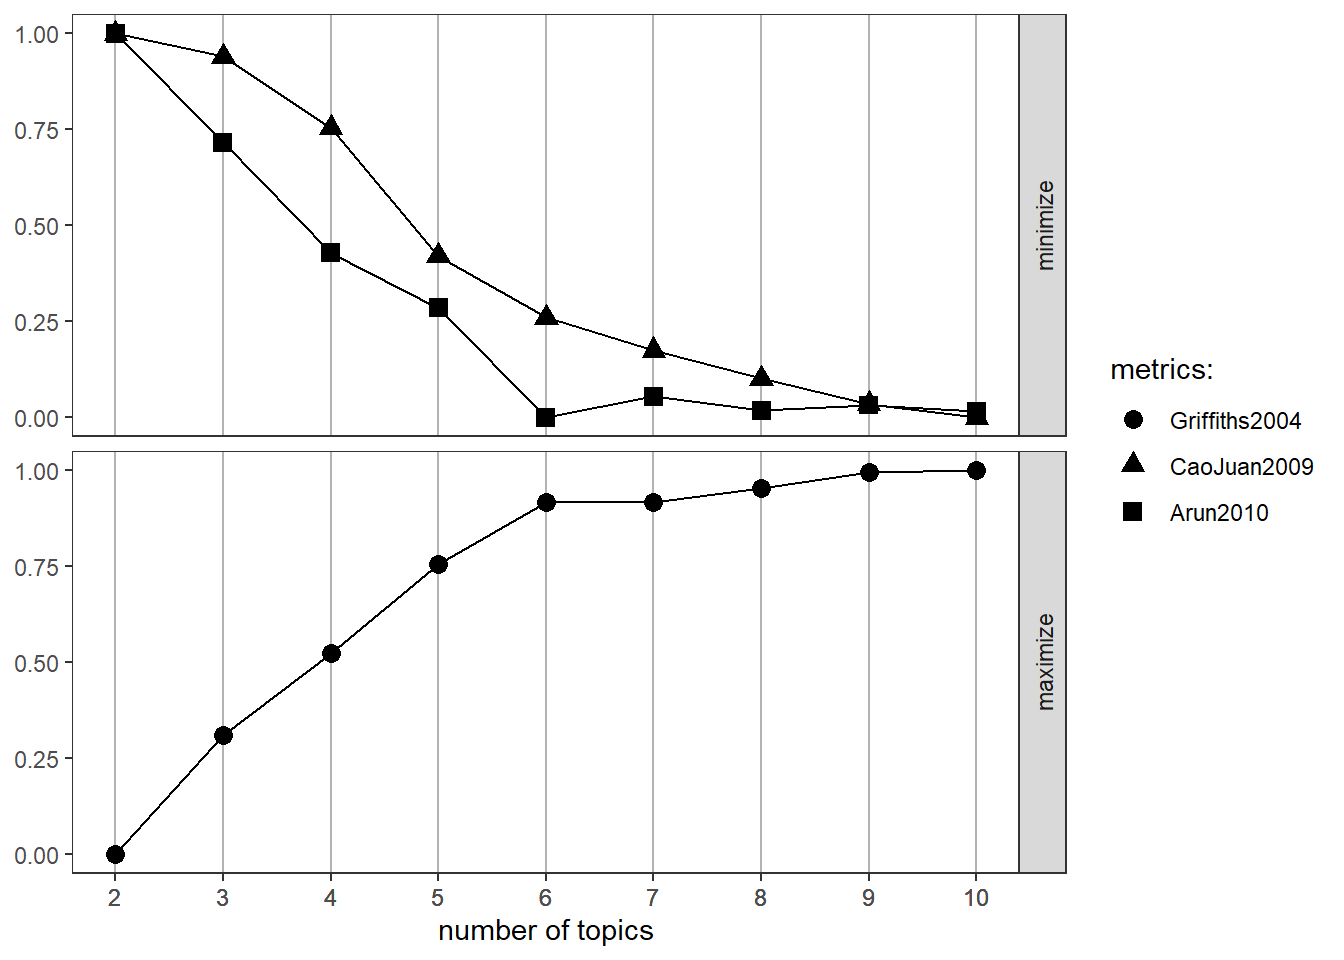
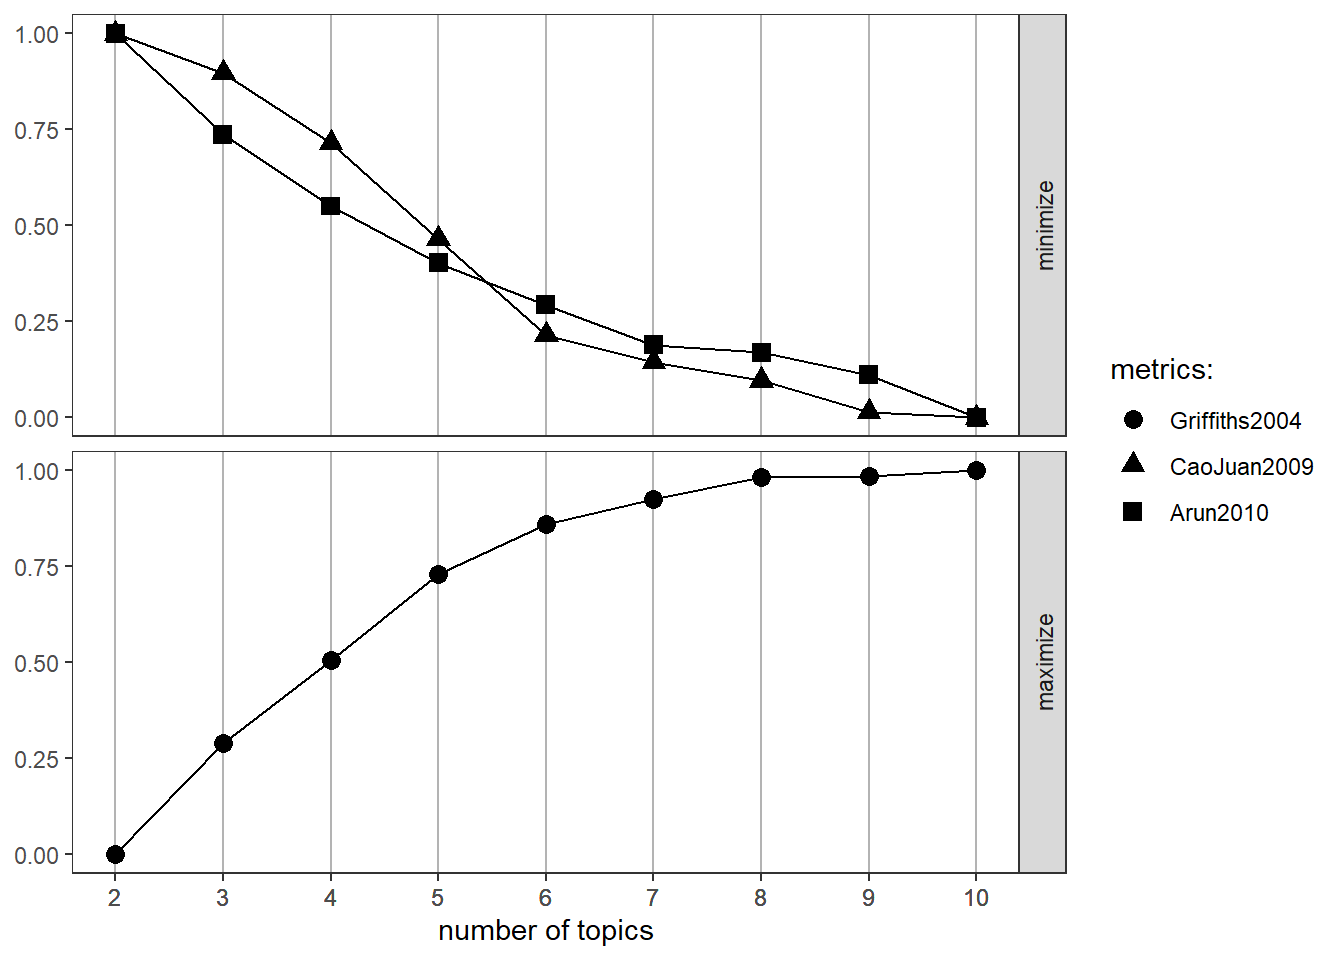
Minor changes again.

diff --git a/docs/RWDMOH001.html b/docs/RWDMOH001.html
@@ -8,7 +8,7 @@
 
 <meta name="author" content="Siraj Rawood, RWDMOH001">
 
-<title>A Quarto Website - Assignmnet2</title>
+<title>A Quarto Website - Assignment2</title>
 <style>
 code{white-space: pre-wrap;}
 span.smallcaps{font-variant: small-caps;}
@@ -86,7 +86,7 @@ ul.task-list li input[type="checkbox"] {
             <ul class="navbar-nav navbar-nav-scroll me-auto">
   <li class="nav-item">
     <a class="nav-link active" href="./RWDMOH001.html" rel="" target="" aria-current="page">
- <span class="menu-text">Home</span></a>
+ <span class="menu-text">Assignment2</span></a>
   </li>  
   <li class="nav-item">
     <a class="nav-link" href="./ChatGPT.html" rel="" target="">
@@ -131,7 +131,7 @@ ul.task-list li input[type="checkbox"] {
 
 <header id="title-block-header" class="quarto-title-block default">
 <div class="quarto-title">
-<h1 class="title">Assignmnet2</h1>
+<h1 class="title">Assignment2</h1>
 </div>
 
 
@@ -180,15 +180,15 @@ ul.task-list li input[type="checkbox"] {
 <div class="cell">
 <div class="cell-output cell-output-stdout">
 <pre><code>  topics Griffiths2004 CaoJuan2009 Arun2010
-1     10     -722976.5   0.1270956 114.5527
-2      9     -723287.0   0.1398716 115.0858
-3      8     -725535.5   0.1644820 114.6463
-4      7     -727499.8   0.1915490 115.8610
-5      6     -727525.5   0.2231102 114.0160
-6      5     -736207.6   0.2819384 123.5482
-7      4     -748785.9   0.4049098 128.3411
-8      3     -760343.9   0.4735794 137.9660
-9      2     -777203.5   0.4958447 147.4585</code></pre>
+1     10     -722587.0   0.1252683 107.6611
+2      9     -723451.9   0.1306858 112.1537
+3      8     -723526.2   0.1636107 114.5250
+4      7     -726580.7   0.1826739 115.3153
+5      6     -730108.3   0.2107762 119.5070
+6      5     -737220.2   0.3097658 123.9413
+7      4     -749333.8   0.4087572 129.9062
+8      3     -760985.8   0.4814322 137.4474
+9      2     -776742.0   0.5223058 148.0905</code></pre>
 </div>
 <div class="cell-output-display">
 <p><img src="RWDMOH001_files/figure-html/unnamed-chunk-3-1.png" class="img-fluid" width="672"></p>
@@ -262,6 +262,10 @@ ul.task-list li input[type="checkbox"] {
 </section>
 <section id="github" class="level1">
 <h1>Github</h1>
+<p><a href="https://github.com/sirajrawood/Assignment_2">GitHub Repo</a></p>
+<p>https://github.com/sirajrawood/Assignment_2</p>
+<p><a href="https://sirajrawood.github.io/Assignment_2/">GitHub Pages Website</a></p>
+<p>https://sirajrawood.github.io/Assignment_2/</p>
 
 
 </section>

diff --git a/docs/ChatGPT.html b/docs/ChatGPT.html
@@ -83,7 +83,7 @@ ul.task-list li input[type="checkbox"] {
             <ul class="navbar-nav navbar-nav-scroll me-auto">
   <li class="nav-item">
     <a class="nav-link" href="./RWDMOH001.html" rel="" target="">
- <span class="menu-text">Home</span></a>
+ <span class="menu-text">Assignment2</span></a>
   </li>  
   <li class="nav-item">
     <a class="nav-link active" href="./ChatGPT.html" rel="" target="" aria-current="page">
